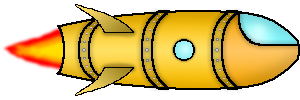
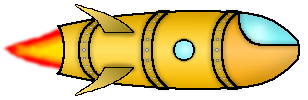
shield pickup

Changed region(s): [[0.12, 0.03, 1.0, 0.96], [0.12, 0.63, 0.15, 0.66]]

diff --git a/logic/Player.java b/logic/Player.java
@@ -21,6 +21,7 @@ public class Player {
 
     private static BufferedImage[] looks;
     private static BufferedImage[] damageOverlays;
+    private static BufferedImage shieldOverlay;
 
     private ParticleEmitter emitter1;
     private ParticleEmitter emitter2;
@@ -28,6 +29,7 @@ public class Player {
 
     private float timeLaser;
     private float timeSinceLastShot;
+    private boolean shieldEnabled = false;
 
     private ArrayList<Laser> laser;
 
@@ -43,6 +45,7 @@ public class Player {
         for (int i = 0; i < damageOverlayCount; i++) {
             damageOverlays[i] = GfxLoader.loadImage("damage_" + i);
         }
+        shieldOverlay = GfxLoader.loadImage("playerShieldOverlay");
     }
 
     private final int UPSPEED = 3000;
@@ -60,9 +63,9 @@ public class Player {
     public Player(Game g) {
         x = 100;
         y = 200;
-        b = new Rect(x, y, 300, 200);
+        b = new Rect(x, y, 308, 200);
         health = 100;
-        look = new BufferedImage(300, 200, BufferedImage.TYPE_INT_ARGB);
+        look = new BufferedImage(308, 200, BufferedImage.TYPE_INT_ARGB);
         emitter1 = new ParticleEmitter(new Smoke(500, 500), 0.001);
         emitter2 = new ParticleEmitter(new Smoke(200, 100), 0.001);
         emitter3 = new ParticleEmitter(new Smoke(200, 100), 0.001);
@@ -143,7 +146,7 @@ public class Player {
                 Point v4 = new Point(130, 0);
                 v4 = v4.rotate(speedy / 50);
                 Point p4 = middle.plus(v4);
-                
+
                 laser.add(new Laser(p4.getX(), p4.getY(), v4.getX(), v4.getY()));
             }
         }
@@ -164,7 +167,7 @@ public class Player {
         for (Laser l : laser) {
             l.render(g);
         }
-        look = new BufferedImage(300, 200, BufferedImage.TYPE_INT_ARGB);
+        look = new BufferedImage(308, 200, BufferedImage.TYPE_INT_ARGB);
         Graphics g2 = look.createGraphics();
         g2.drawImage(looks[currentLook], 0, 50, null);
 
@@ -176,6 +179,10 @@ public class Player {
 
         for (int i = 0; i < damageState; i++) {
             g2.drawImage(damageOverlays[i], 0, 50, null);
+        }
+
+        if (shieldEnabled) {
+            g2.drawImage(shieldOverlay, 0, 50, null);
         }
 
         g2.dispose();
@@ -196,6 +203,10 @@ public class Player {
     }
 
     void damage(int damage) {
+        if (shieldEnabled) {
+            shieldEnabled = false;
+            return;
+        }
         health -= damage;
         if (health <= 0) {
             //Lost Game
@@ -207,9 +218,12 @@ public class Player {
         timeLaser = 5f;
     }
 
+    void setShield() {
+        shieldEnabled = true;
+    }
+
     public ArrayList<Laser> getLaser() {
         return laser;
     }
-    
-    
+
 }

diff --git a/logic/Layer.java b/logic/Layer.java
@@ -54,7 +54,7 @@ public class Layer {
         timeSinceLastSpawn += timeSinceLastFrame;
         if (timeSinceLastSpawn >= 2) {
             timeSinceLastSpawn = 0;
-            int r = new Random().nextInt(5);
+            int r = new Random().nextInt(7);
             switch (r) {
                 case 0:
                     asteroids.add(Pickup.createRepairKit());
@@ -62,6 +62,8 @@ public class Layer {
                 case 1:         
                     asteroids.add(Pickup.createLaser());       
                     break;
+                case 2:
+                    asteroids.add(Pickup.createShield());
                 default:
                     asteroids.add(Asteroid.createRandomShape());
                     break;

diff --git a/logic/Pickup.java b/logic/Pickup.java
@@ -17,7 +17,7 @@ import util.gfx.GfxLoader;
  */
 public abstract class Pickup extends FlyingObject {
 
-    public static final int PickupCount = 2;
+    public static final int PickupCount = 3;
 
     private final int id;
 
@@ -105,6 +105,18 @@ public abstract class Pickup extends FlyingObject {
         
         laser.init();
         return laser;
+    }
+
+    public static Pickup createShield() {
+        Pickup s = new Pickup(2) {
+            @Override
+            public void doEffect(Player p) {   
+               p.setShield();
+            }
+        };
+        
+        s.init();
+        return s;
     }
 
 }
